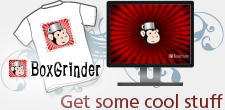
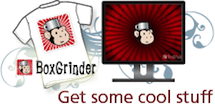
Added cool stuff section on right column.

diff --git a/stylesheets/screen.scss b/stylesheets/screen.scss
@@ -70,6 +70,15 @@ body {
     overflow: hidden;
 }
 
+#cool-stuff {
+    background: url('/images/project_coolstuff_boxgrinder.png') no-repeat;
+}
+
+#cool-stuff p {
+    padding-top: 115px;
+    text-align: right;
+}
+
 div#menu {
     background-color: #444;
     color: #fff;
